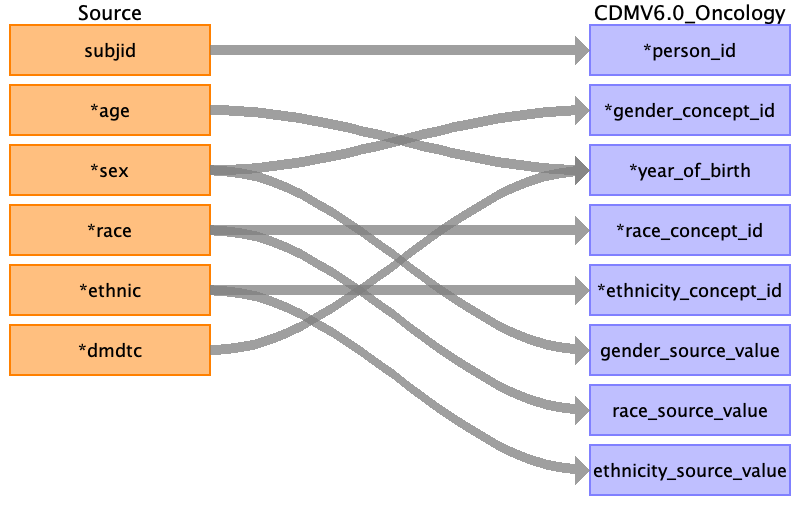
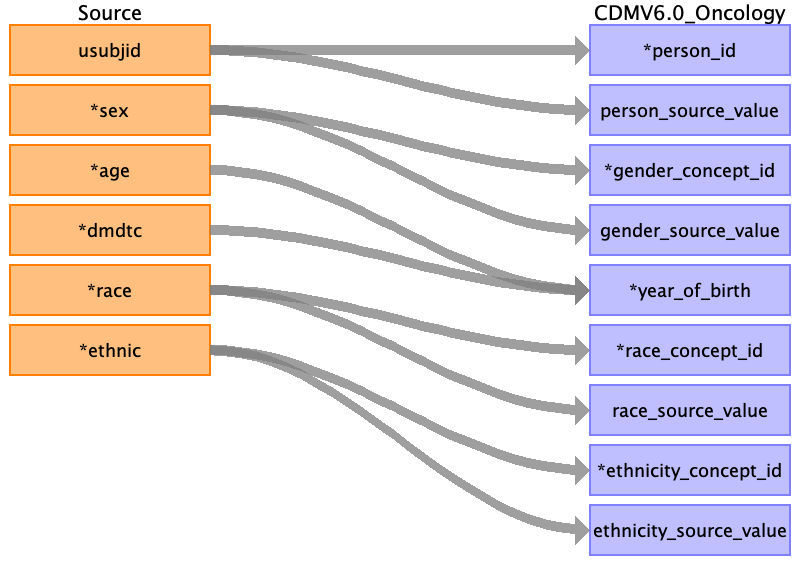
update docs with ds to observation mapping

diff --git a/docs/source_appendix.md b/docs/source_appendix.md
@@ -8,6 +8,11 @@
 | domain | varchar | DM |  |
 | usubjid | varchar |  |  |
 | subjid | int |  |  |
+| sex | varchar | F |  |
+| age | int | 74 |  |
+| dmdtc | date | 2012-12-13 |  |
+| race | varchar | WHITE |  |
+| ethnic | varchar | NOT HISPANIC OR LATINO |  |
 | rfstdtc | date |  |  |
 | rfendtc | date |  |  |
 | rfxstdtc | date |  |  |
@@ -17,18 +22,33 @@
 | dthdtc | date |  |  |
 | dthfl | varchar |  |  |
 | siteid | int | 718 |  |
-| age | int | 74 |  |
 | ageu | varchar | YEARS |  |
-| sex | varchar | F |  |
-| race | varchar | WHITE |  |
-| ethnic | varchar | NOT HISPANIC OR LATINO |  |
 | armcd | varchar | Xan_Hi |  |
 | arm | varchar | Xanomeline High Dose |  |
 | actarmcd | varchar | Xan_Hi |  |
 | actarm | varchar | Xanomeline High Dose |  |
 | country | varchar | USA |  |
-| dmdtc | date | 2012-12-13 |  |
 | dmdy | int | -4 |  |
+
+### Table: ds.csv
+
+| Field | Type | Most freq. value | Comment |
+| --- | --- | --- | --- |
+| studyid | varchar | CDISCPILOT01 |  |
+| domain | varchar | DS |  |
+| usubjid | varchar |  |  |
+| dsseq | real | 1 |  |
+| dsspid | int |  |  |
+| dsterm | varchar | FINAL LAB VISIT |  |
+| dsdecod | varchar | FINAL LAB VISIT |  |
+| dscat | varchar | DISPOSITION EVENT |  |
+| visitnum | real | 13 |  |
+| visit | varchar | WEEK 26 |  |
+| epoch | varchar | FOLLOW-UP |  |
+| dsdtc | varchar | 2013-06-03 |  |
+| dsstdtc | date | 2013-06-03 |  |
+| dsdy | int | 183 |  |
+| dsstdy | int | 183 |  |
 
 ### Table: ae.csv
 
@@ -99,26 +119,6 @@
 | cmdy | int | 1 |  |
 | cmstdy | int | 0 |  |
 | cmendy | int | 0 |  |
-
-### Table: ds.csv
-
-| Field | Type | Most freq. value | Comment |
-| --- | --- | --- | --- |
-| studyid | varchar | CDISCPILOT01 |  |
-| domain | varchar | DS |  |
-| usubjid | varchar |  |  |
-| dsseq | real | 1 |  |
-| dsspid | int |  |  |
-| dsterm | varchar | FINAL LAB VISIT |  |
-| dsdecod | varchar | FINAL LAB VISIT |  |
-| dscat | varchar | DISPOSITION EVENT |  |
-| visitnum | real | 13 |  |
-| visit | varchar | WEEK 26 |  |
-| epoch | varchar | FOLLOW-UP |  |
-| dsdtc | varchar | 2013-06-03 |  |
-| dsstdtc | date | 2013-06-03 |  |
-| dsdy | int | 183 |  |
-| dsstdy | int | 183 |  |
 
 ### Table: ex.csv
 

diff --git a/docs/observation.md b/docs/observation.md
@@ -1,0 +1,32 @@
+## Table name: observation
+
+### Reading from ds.csv
+
+Trial outcomes
+
+![](md_files/image2.png)
+
+| Destination Field | Source field | Logic | Comment field |
+| --- | --- | --- | --- |
+| observation_id |  |  | Auto-increment |
+| person_id | usubjid |  |  |
+| observation_concept_id | dsdecod | COMPLETED - 4042840 (completed trial)  SCREEN FAILURE - xxxxx (Not eligible to participate)  WITHDRAWAL BY SUBJECT - 4163733 (withdrawn from trial)  STUDY TERMINATED BY SPONSOR - 4163733 (withdrawn from trial)  DEATH - 4163733 (withdrawn from trial)    FINAL LAB VISIT - do not capture here  FINAL RETRIEVAL VISIT - do not capture here  PROTOCOL DEVIATION - do not capture here  ADVERSE EVENT - do not capture here | There are other values possible in the dsdecod field that still have to be covered in the logic<br> |
+| observation_source_value | dsdecod |  |  |
+| observation_date | dsstdtc |  |  |
+| observation_datetime | dsstdtc |  |  |
+| observation_type_concept_id |  |  | xxxxxx - Case Report Form |
+| value_as_number |  |  |  |
+| value_as_string |  |  |  |
+| value_as_concept_id | dsdecod | WITHDRAWAL BY SUBJECT - xxxxx ("Patient decided to withdraw")  STUDY TERMINATED BY SPONSOR - xxxxxxx ("Withdrawn by investigator")  DEATH - 4306655 (Death) |  |
+| qualifier_concept_id |  |  |  |
+| unit_concept_id |  |  |  |
+| provider_id |  |  |  |
+| visit_occurrence_id |  |  |  |
+| visit_detail_id |  |  |  |
+| observation_source_concept_id |  |  |  |
+| unit_source_value |  |  |  |
+| qualifier_source_value |  |  |  |
+| observation_event_id |  |  |  |
+| obs_event_field_concept_id |  |  |  |
+| value_as_datetime |  |  |  |
+

diff --git a/docs/person.md b/docs/person.md
@@ -2,27 +2,29 @@
 
 ### Reading from dm.csv
 
+Remove any rows with an empty subjid
+
 ![](md_files/image1.png)
 
 | Destination Field | Source field | Logic | Comment field |
 | --- | --- | --- | --- |
-| person_id | subjid |  |  |
+| person_id | usubjid | Convert to integer representation of subjid  OR auto-increment the person_id |  |
+| person_source_value | usubjid |  |  |
 | gender_concept_id | sex | Map to standard OMOP concept  M - 8507  F - 8532 |  |
-| year_of_birth | age<br>dmdtc | dmtc - age<br> |  |
+| gender_source_value | sex |  |  |
+| year_of_birth | age<br>dmdtc | YEAR(dmtc) - age<br> |  |
 | month_of_birth |  |  |  |
 | day_of_birth |  |  |  |
 | birth_datetime |  |  |  |
 | death_datetime |  |  |  |
 | race_concept_id | race | Map to standard OMOP concept |  |
+| race_source_value | race |  |  |
 | ethnicity_concept_id | ethnic | Map to standard OMOP concept |  |
+| ethnicity_source_value | ethnic |  |  |
 | location_id |  |  |  |
 | provider_id |  |  |  |
 | care_site_id |  |  |  |
-| person_source_value |  |  |  |
-| gender_source_value | sex |  |  |
 | gender_source_concept_id |  |  |  |
-| race_source_value | race |  |  |
 | race_source_concept_id |  |  |  |
-| ethnicity_source_value | ethnic |  |  |
 | ethnicity_source_concept_id |  |  |  |
 

diff --git a/docs/index.md b/docs/index.md
@@ -1,10 +1,12 @@
 # Source Data Mapping Approach to CDMV6.0_Oncology
 
-![](md_files/image3.png)
+![](md_files/image4.png)
 
 ## Contents
 
 [person](person.md)
+
+[observation](observation.md)
 
 [visit_occurrence](visit_occurrence.md)
 

diff --git a/docs/visit_occurrence.md b/docs/visit_occurrence.md
@@ -2,7 +2,7 @@
 
 ### Reading from sv.csv
 
-![](md_files/image2.png)
+![](md_files/image3.png)
 
 | Destination Field | Source field | Logic | Comment field |
 | --- | --- | --- | --- |
